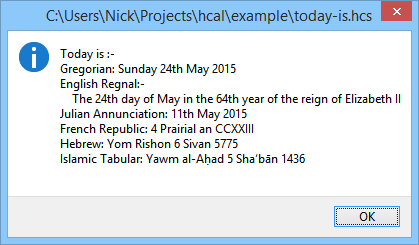
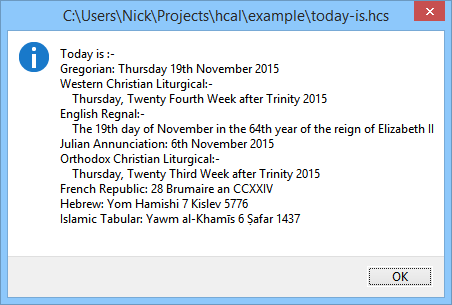
Add news item on release of version 0.0.5 alpha.

Changed region(s): [[0.0, 0.0, 0.9928, 0.7429], [0.0, 0.8, 0.9928, 1.0], [0.7757, 0.8571, 0.8067, 0.9143]]

diff --git a/website/new/news.htm b/website/new/news.htm
@@ -39,8 +39,19 @@
 
 <div id="content">
 
+<h2>19th November 2015</h2>
+<img class='scrnprnt' src='../sp/sp8.png' alt='today-is.hcs script output' />
+<p>
+ Alpha version 0.0.5 of HistoryCal for Windows is released.
+ This version adds the Common Era Julian and Gregorian calendars and the Astronomical Year calendar, a hybrid using the Julian and Gregorian schemes.</p>
+<p>
+ The version also introduces the idea of optional fields in a calendar scheme, this makes it easier to create new calendar variants without impacting on other calendars. The HistoryCal script language has also been significantly extended with if/endif and do/loop statements plus other improvements. Work in inhand to fully document the language.
+</p>
+<p>
+ A number of bugs have been fixed, in particular the Christian Liturgical calendars should now work correctly.
+</p>
+
 <h2>24th May 2015</h2>
-<img class='scrnprnt' src='../sp/sp8.png' alt='Screen Print 8' />
 <p>
  Alpha version 0.0.4 of HistoryCal for Windows is released.
  This version adds a new base calendar, the Islamic Tabular calendar which comes in a number of variations.
